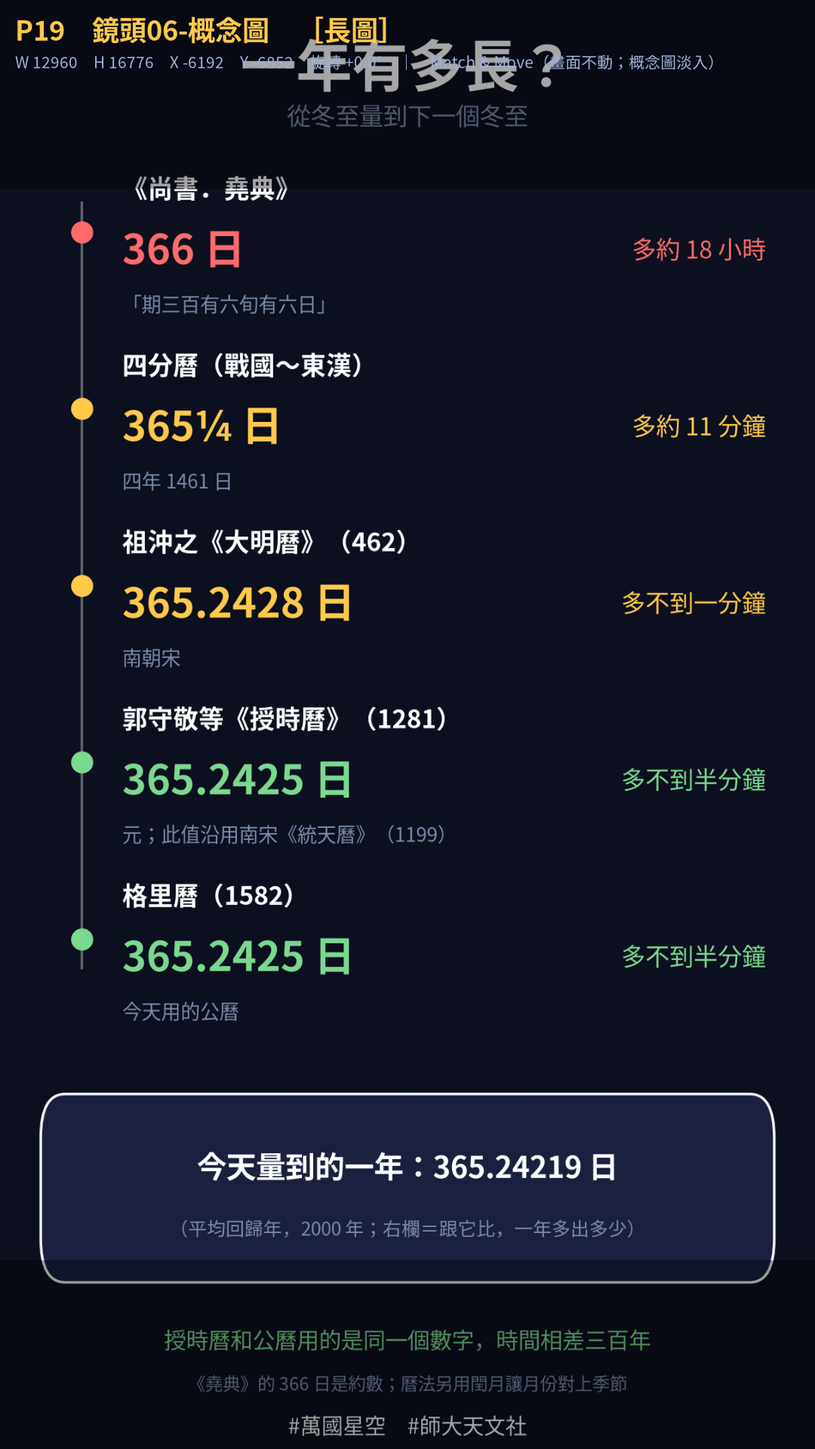
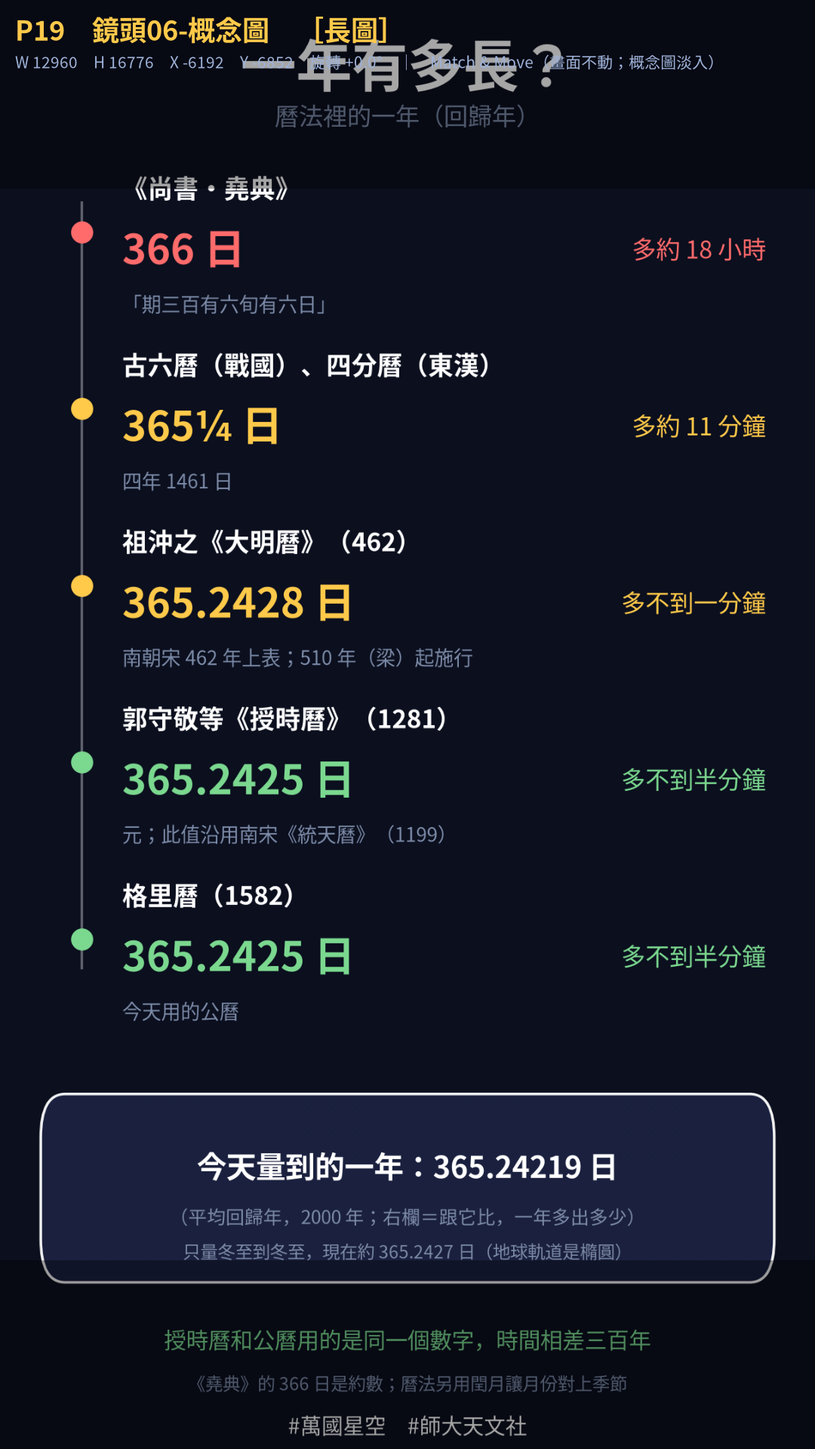
H-冬至：依事實查核修正（景符旁白、Yule 句、建康、圖卡基準與今晚說明）＋節目表
- 05 鏡：景符是讓模糊的影子變成亮點裡的一道細線（10 秒）；11 鏡「在聖誕節傳來以前」（12 秒）
- C-HDZ-03 拿掉「建康」（原文未載地點）；C-HDZ-04 八尺表影長統一為約一丈三尺、註明以登封觀星台為例
- C-HDZ-05 副標改「曆法裡的一年（回歸年）」並註明冬至到冬至約 365.2427 日；四分曆、大明曆施行年
- C-HDZ-06：18:00 改「頭頂附近：飛馬座大四邊形」、昴宿這時在東方；九點半是「到正南（頭頂）」；折射註腳
- 逐字稿書名間隔號統一「・」、古度／今度註明；總長 119 秒、494 字、4.15 字/秒
- 節目表 H-冬至 列更新（119s、素材需求、狀態）

Claude-Session: https://claude.ai/code/session_01StZzE6tWpXcy8oYxpE6GNa

diff --git a/02_製作流程SOP/make_hdz_v4.py b/02_製作流程SOP/make_hdz_v4.py
@@ -5,20 +5,20 @@
   ① 影子：立八尺的表、平放一把圭，每天正午量影子；最長的那天就是冬至（《周髀算經》冬至晷長
      一丈三尺五寸、夏至一尺六寸）。從這次最長數到下次最長＝一年＝365¼ 日，所以周天也分成
      365¼ 度：太陽一天走一度。
-  ② 越量越準：冬至前後影長幾乎不變 → 祖沖之（南朝宋，大明五年 461）量冬至前後影長相同的兩天、
-     折取其中（《宋書．律曆志》）→ 郭守敬（元）四丈高表＋景符；授時曆（1281）歲實 365.2425 日，
+  ② 越量越準：冬至前後影長幾乎不變 → 祖沖之（南朝宋大明五年 461）量冬至前後影長相同的兩天、
+     折取其中（《宋書・律曆志》）→ 郭守敬（元）四丈高表＋景符；授時曆（1281）歲實 365.2425 日，
      與 1582 年格里曆同值（此值沿用南宋統天曆）。
-  ③ 星星：《尚書．堯典》「日短星昴，以正仲冬」——冬至黃昏昴宿在正南。東晉虞喜（330）：
-     「堯時冬至日短星昴，今二千七百餘年，乃東壁中」（《宋史．律曆志》引）→ 歲差。
+  ③ 星星：《尚書・堯典》「日短星昴，以正仲冬」——冬至黃昏昴宿在正南。東晉虞喜（330）：
+     「堯時冬至日短星昴，今二千七百餘年，乃東壁中」（《宋史・律曆志》引）→ 歲差。
      今晚台北：18:00 正南方是東壁（飛馬座大四邊形東邊），昴宿 21:38 才到頭頂（高度 89°）。
 之後：今天怎麼看（圖卡）→ 下集 A-15 北歐：畢宿的狼嘴 Úlfs kjaptr；導流 C-01 論天三家。
 
-來源：《周髀算經》、《宋書．律曆志》、《元史．天文志》、《尚書．堯典》、《宋史．律曆志》、
+來源：《周髀算經》、《宋書・律曆志》、《元史・天文志》、《尚書・堯典》、《宋史・律曆志》、
 Stellarium 新版 skycultures：chinese（室宿、壁宿、昴宿、畢宿）、norse（Wolf's Mouth）；PyEphem 自算。
 
 參數
   lst = 2.5 → 走廊（x=0）＝RA 2.5＝台北 2026/12/22 18:00 的子午線（LST 0h10m）：壁宿 x≈0，
-             室宿 +16，昴宿 −54.4（＝3.6 小時後，21:38 到頭頂），畢宿 −64，月亮（21:38）−64.7。
+             室宿 +16.4，昴宿六 −54.4（＝3.6 小時後，21:38 到頭頂），畢宿五 −66.5，月亮（21:38）−64.1。
   D_s = 45、D_r = 49、D_fill = 0（與 A-05、X-02 相同；盤寬 ÷ 畫布寬 ＝ 0.698729）：本集只用長圖帶
              （室壁 +15…+29、昴宿 +24、畢宿 +15…+19），盤照規定生成、不使用。
 """
@@ -164,9 +164,9 @@ def write_custom(m, S, layers, discs=False):
 # ══════════════════════════════════════════════════════════════════
 TERMS = [
     ("昴宿", "日短星昴（《堯典》）", "amber",
-     "《尚書．堯典》「日短，星昴，以正仲冬」：白天最短、黃昏昴宿在正南，就是仲冬"),
+     "《尚書・堯典》「日短，星昴，以正仲冬」：白天最短、黃昏昴宿在正南，就是仲冬"),
     ("東壁", "壁宿", "amber",
-     "虞喜（東晉，330）：「堯時冬至日短星昴，今二千七百餘年，乃東壁中」（《宋史．律曆志》引）"),
+     "虞喜（東晉，330）：「堯時冬至日短星昴，今二千七百餘年，乃東壁中」（《宋史・律曆志》引）"),
     ("室宿", "營室", "white", "室宿一 α Peg、室宿二 β Peg；室、壁古時合稱營室（飛馬座大四邊形）"),
     ("21:38", "昴宿到頭頂（台北今晚）", "amber", "PyEphem：台北 2026/12/22 21:38 昴宿六過子午線，高度 89.2°"),
     ("Úlfs kjaptr", "狼嘴（北歐）", "red", "Stellarium norse：Wolf's Mouth＝畢宿的 V；A-15"),
@@ -276,10 +276,11 @@ def build():
              vo="可是冬至前後，影子幾乎不變，看不出哪天最長。南朝的祖沖之改量冬至前後影子一樣長的兩天，"
                 "再取正中間。",
              note="畫面不動；定格疊概念圖 C-HDZ-03（平頂 → 大明五年的三次實測 → 折取其中＝十一月三日）"),
-        dict(code="05", kind="Z", sec=9, north=True,
+        dict(code="05", kind="Z", sec=10, north=True,
              frames=[WALL], layers=["定位", "室壁"], labels=[], labels_start=[],
              overlay="C-HDZ-04_四丈高表", overlay_layers=["八尺層", "四丈層", "景符層"],
-             vo="元朝的郭守敬，把竿子加高到四丈，影子拉長五倍；再用一片有小孔的「景符」，對準模糊的影子邊緣。",
+             vo="元朝的郭守敬，把竿子加高到四丈，影子拉長五倍；再用有小孔的「景符」，讓模糊的影子，"
+                "變成亮點裡的一道細線。",
              note="畫面不動；定格疊概念圖 C-HDZ-04（八尺表 → 四丈高表 → 景符）"),
         dict(code="06", kind="Z", sec=12, north=True,
              frames=[WALL], layers=["定位", "室壁"], labels=[], labels_start=[],
@@ -289,7 +290,7 @@ def build():
              note="畫面不動；之後疊 9:16 圖卡 C-HDZ-05 一年有多長（可存圖）"),
         dict(code="07", kind="S", sec=10, north=True,
              frames=[WALL, MAO], layers=["昴"], labels=ls("堯典"), labels_start=[],
-             vo="影子管白天，星星管晚上。《尚書．堯典》說：「日短星昴，以正仲冬」——白天最短、"
+             vo="影子管白天，星星管晚上。《尚書・堯典》說：「日短星昴，以正仲冬」——白天最短、"
                 "黃昏時昴宿在正南方，就是仲冬。",
              note="往左（東）滑到昴宿；昴宿（琥珀）"),
         dict(code="08", kind="S", sec=11, north=True,
@@ -300,17 +301,17 @@ def build():
         dict(code="09", kind="S", sec=10, north=True,
              frames=[WALL, MAO], layers=["昴", "畢", "月"], labels=ls("今晚"), labels_start=ls("虞喜"),
              vo="今晚在台北，昴宿要到九點半過後，才爬到頭頂正上方——比《堯典》說的黃昏，晚了好幾個鐘頭。",
-             note="往左滑 64°＝4.2 小時（18:00 正南 → 21:38 頭頂）；昴宿、畢宿、月亮（12/22 21:38 的位置）"),
+             note="鏡頭往左滑 64°（框中心 x +7 → −57）；昴宿 18:00 後 3.6 小時（21:38）到頭頂；昴宿、畢宿、月亮（12/22 21:38 的位置）"),
         dict(code="10", kind="Z", sec=12, north=True,
              frames=[MAO], layers=["昴", "畢", "月"], labels=[], labels_start=ls("今晚"),
              overlay="C-HDZ-06_今天怎麼看",
              vo="今天中午十一點五十二分，立一根一公尺的棍子，影子大約一點一三公尺，是今年最長的。"
                 "今晚月亮快滿了，昴宿就在它旁邊。",
              note="畫面不動；之後疊 9:16 圖卡 C-HDZ-06 今天怎麼看（台北 12/22；可存圖）"),
-        dict(code="11", kind="Z", sec=11, north=True,
+        dict(code="11", kind="Z", sec=12, north=True,
              frames=[MAO, WOLF], layers=["狼", "月"], labels=ls("北歐"), labels_start=[],
              vo="影子還能量出太陽多遠？可以回頭看《論天三家》那集。三天後聖誕節，我們去北歐："
-                "聖誕節以前，北歐人過的仲冬節，叫 Yule。",
+                "在聖誕節傳來以前，北歐人過的仲冬節，叫 Yule。",
              card="下集見｜北歐：Yule 之夜的狼與神駒",
              note="推近畢宿；北歐狼嘴（紅）；端卡＋追蹤 CTA"),
     ]

diff --git a/04_腳本庫/H-冬至-一根棍子如何量出一年-逐字稿-v1.md b/04_腳本庫/H-冬至-一根棍子如何量出一年-逐字稿-v1.md
@@ -1,29 +1,29 @@
-# H-冬至｜一根棍子如何量出一年（萬國星空・特別短鉤子）・v1
+# H-冬至｜一根棍子如何量出一年（萬國星空・特別短鉤子）・v1（已過事實查核）
 
 | 項目 | 內容 |
 |---|---|
 | 發布 | **2026/12/22（二・冬至）**；冬至交節 04:50（台北） |
-| 時長 | **117 秒**（11 鏡頭；節目表原訂 30–45 秒，見下方 ⚠） |
+| 時長 | **119 秒**（11 鏡頭；節目表原訂 30–45 秒，見下方 ⚠） |
 | 格式 | Reels 9:16；**長圖帶狀**（台北 12/22 18:00 的子午線＝畫面中線；全片不用盤）；定格概念圖 4 組＋9:16 圖卡 2 張 |
 | 素材 | `05_素材/H-冬至_圭表/_v4大畫布/`（v4.6：大畫布＋北／南盤圖層組；連線：大四邊形（定位，白）、室宿＋壁宿（琥珀）、昴宿（琥珀）、畢宿（白）、狼嘴（北歐，紅）；自訂層：月亮（12/22 21:38 的位置）；標籤 4 組；`H-冬至_Canva逐頁製作表.md`＋`H-冬至_對位參考/` 26 頁）；`05_素材/H-冬至_圭表/_概念圖/`（C-HDZ-01～06） |
 | 參數 | **lst=2.5, D_s=45, D_r=49, D_fill=0**；k=1.397，R_fill=125.77，y_pole=107.09（盤寬 ÷ 畫布寬 ＝ **0.698729**，與 A-05、X-02 同） |
 | 為何這組參數 | 走廊（x=0）＝RA 2.5°＝台北 12/22 18:00 的子午線（恆星時 0h10m）：壁宿（東壁）x −0.2、室宿 +16.4、昴宿六 −54.4（往東 54°＝3.6 小時後，21:38 到頭頂）、畢宿五 −66.5、月亮（21:38）−64.1。所有星都在 dec +15…+29，D_s=45 包得住；不需要盤鏡頭（盤圖層組照規格輸出、未使用）。 |
-| 來源 | 《周髀算經》（表高八尺，冬至晷一丈三尺五寸、夏至一尺六寸）；《尚書．堯典》（日短星昴、期三百有六旬有六日）；《宋書．律曆志》（祖沖之大明五年實測）；《元史．天文志》（四丈高表、景符）；《宋史．律曆志》引虞喜；Stellarium 新版 skycultures：chinese（室宿、壁宿、昴宿、畢宿）、norse（Wolf's Mouth）；天象 PyEphem 自算 |
-| 配音 | 逐字稿 **486 字**（中文字＋外文音節），平均 **4.15 字/秒**；最快一格 04 鏡 4.40（上限 4.5） |
+| 來源 | 《周髀算經》（表高八尺，冬至晷一丈三尺五寸、夏至一尺六寸）；《尚書・堯典》（日短星昴、期三百有六旬有六日）；《宋書・律曆志》（祖沖之大明五年實測）；《元史・天文志》（四丈高表、景符）；《宋史・律曆志》引虞喜；Stellarium 新版 skycultures：chinese（室宿、壁宿、昴宿、畢宿）、norse（Wolf's Mouth）；天象 PyEphem 自算 |
+| 配音 | 逐字稿 **494 字**（中文字＋外文音節），平均 **4.15 字/秒**；最快兩格 04、05 鏡 4.40（上限 4.5） |
 | 統一開頭 | 「同一片星空，冬至這一天——影子最長；古人用一根棍子——量出一年。」 |
 | 承接 | EP19（A-14）因紐特（12/18）→ **H-冬至（12/22）** → EP20（A-15）北歐：Yule 之夜的狼與神駒（12/25）；導流 C-01 論天三家（圭表量太陽多遠） |
 
-> ⚠ **節目表時長要改**：原訂 30–45 秒，實際 117 秒（11 鏡）。要做 45 秒版：留 01、02、03 前半句（「從這次最長數到下次最長，就是一年」）、07、10，約 47 秒；祖沖之、郭守敬、虞喜三段（04、05、06、08）改成輪播圖卡或留給完整版。
+> ⚠ **節目表時長要改**：原訂 30–45 秒，實際 119 秒（11 鏡）。要做 45 秒版：留 01、02、03 前半句（「從這次最長數到下次最長，就是一年」）、07、10，約 47 秒；祖沖之、郭守敬、虞喜三段（04、05、06、08）改成輪播圖卡或留給完整版。
 > ⚠ **節目表素材需求要改**：原寫「圭表示意＋星盤」——星空部分用長圖帶就夠（東壁、昴宿都在 dec +15…+29），**不需要星盤**；圭表改成 4 組概念圖。
 > ⚠ **鉤子保留**：「冬至：一根棍子如何量出一年」「觀象授時——古人用影子做日曆」都照用。
-> ⚠ **講得保守的地方**：①《堯典》四仲中星的年代爭議很大（各家從約前 2300 年到前 400 年都有），片中不說「幾千年前」，只說今晚昴宿要等到九點半過後才到頭頂、「比《堯典》說的黃昏晚了好幾個鐘頭」（今晚黃昏 17:35，昴宿 21:38 過子午線，是自算的事實）；②365.2425 日是授時曆**採用**的數字（沿用南宋楊忠輔《統天曆》，1199），片中說「授時曆一年取」，不說郭守敬算出來的；③虞喜的「二千七百餘年」「東壁中」是他自己的估計，他的歲差值「五十年退一度」偏快（實際約 71.6 年一度），片中只講他的發現；④《周髀》的一丈三尺五寸是書上的理想值，登封八尺表的冬至影長自算約一丈二尺七寸，C-HDZ-02 註明「計算值」；⑤祖沖之的三次實測是大明五年（461），《大明曆》是隔年（462）上表。
+> ⚠ **講得保守的地方**：①《堯典》四仲中星的年代爭議很大（各家從約前 2300 年到前 400 年都有），片中不說「幾千年前」，只說今晚昴宿要等到九點半過後才到頭頂、「比《堯典》說的黃昏晚了好幾個鐘頭」（今晚黃昏 17:35，昴宿 21:38 過子午線，是自算的事實）；②365.2425 日是授時曆**採用**的數字（沿用南宋楊忠輔《統天曆》，1199），片中說「授時曆一年取」，不說郭守敬算出來的；③虞喜的「二千七百餘年」「東壁中」是他自己的估計，他的歲差值「五十年退一度」（古度）偏快（實際約每 71.6 年一度，今度），片中只講他的發現；④《周髀》的一丈三尺五寸是書上的理想值，登封八尺表的冬至影長自算約一丈二尺七寸，C-HDZ-02 註明「計算值」；⑤祖沖之的三次實測是大明五年（461），《大明曆》是隔年（462）上表。
 
 > **資料來源挖掘重點（第〇節檢查表）**
 > 1. **本文化的鄰居**：主角是昴宿（HIP 17702）與東壁（壁宿一 γ Peg HIP 1067、壁宿二 α And HIP 677）。台北 12/22 18:00 子午線（RA 2.5°）兩側：西邊室宿（α、β Peg，＝飛馬座大四邊形西邊），東邊奎、婁、胃、昴、畢一路排開——正好是「冬至黃昏正南方的星」從《堯典》的昴宿退到虞喜的東壁、再到今天的這段天。
 > 2. **跨文化同星群**：畢宿（昴宿旁）在北歐是狼嘴 Úlfs kjaptr（A-15）——三天後聖誕節的下集主角，用來接下集；昴宿的各文化名字 X-01 已講，這集不重複。
 > 3. **恆星物理／天象**：PyEphem 自算台北 2026/12/22：冬至交節 04:50；正午 11:52 太陽高 41.53°，1 公尺棍子影長 1.129 公尺（12/21 1.1291、12/23 1.1289，22 日最長）；日出 06:35、日落 17:10，白天 10 小時 35 分（夏至 13 小時 42 分）；民用昏影終 17:35；18:00 壁宿一過子午線（仰角 80°）；昴宿六 21:38 過子午線，仰角 89.2°（幾乎正頭頂）；月亮 96%，21:38 在昴宿東邊 9.3°（12/24 09:28 滿月）。
-> 4. **文獻**：《周髀算經》（八尺表、冬至晷一丈三尺五寸）；《尚書．堯典》（「曆象日月星辰，敬授人時」「日短星昴，以正仲冬」「期三百有六旬有六日」）；《宋書．律曆志》（祖沖之大明五年三次測影、「折取其中」）；《元史．天文志》（四丈高表：橫梁心到圭面共四十尺；景符）；《宋史．律曆志》引虞喜（「堯時冬至日短星昴，今二千七百餘年，乃東壁中」）。
-> 5. **原始出處看到底**：①祖沖之的三個影長要讀成十月十日 10.775 尺、十一月二十五日 10.8175 尺（「太」＝四分之三分）、二十六日 10.7508 尺（「強」＝十二分之一分；各本或作「一丈七五分強」脫「寸」）——用這三個數字自己內插一次：十月十日的對稱日在冬至後 22.64 天，取中＝十一月三日夜半後 0.319 日＝31.9 刻，跟原文「夜半後三十一刻」對得上（十月小月 29 日）；②365.2425 不是郭守敬首創（統天曆已用），圖卡寫明；③虞喜的話是《宋史．律曆志》轉引，原書《安天論》已佚。
+> 4. **文獻**：《周髀算經》（八尺表、冬至晷一丈三尺五寸）；《尚書・堯典》（「曆象日月星辰，敬授人時」「日短星昴，以正仲冬」「期三百有六旬有六日」）；《宋書・律曆志》（祖沖之大明五年三次測影、「折取其中」）；《元史・天文志》（四丈高表：橫梁心到圭面共四十尺；景符）；《宋史・律曆志》引虞喜（「堯時冬至日短星昴，今二千七百餘年，乃東壁中」）。
+> 5. **原始出處看到底**：①祖沖之的三個影長要讀成十月十日 10.775 尺、十一月二十五日 10.8175 尺（「太」＝四分之三分）、二十六日 10.7508 尺（「強」＝十二分之一分；各本或作「一丈七五分強」脫「寸」）——用這三個數字自己內插一次：十月十日的對稱日在冬至後 22.64 天，取中＝十一月三日夜半後 0.319 日＝31.9 刻，跟原文「夜半後三十一刻」對得上（十月小月 29 日）；②365.2425 不是郭守敬首創（統天曆已用），圖卡寫明；③虞喜的話是《宋史・律曆志》轉引，原書《安天論》已佚。
 > 6. **去處**：主線＝冬至最短 → 圭表 → 一年＝最長到最長、周天 365¼ 度 → 祖沖之折取其中 → 郭守敬四丈高表 → 一年有多長（圖卡）→ 影子管白天、星星管晚上：日短星昴 → 虞喜與歲差 → 今晚的昴宿 → 今天怎麼看（圖卡）→ 下集 Yule、導流 C-01；字卡＝圭表、一年的影子、折取其中、四丈高表；圖卡＝一年有多長、冬至今天怎麼看；首留言＝原文全引。
 
 ---
@@ -36,13 +36,13 @@
 | **02** Z | 9–19s（10） | 立一根八尺高的竿子，叫「表」；地上平放一把尺，叫「圭」。每天正午量影子：夏天短、冬天長，最長的那天，就是冬至。 | 大畫布 fov 30（同 01 迄格）；概念圖 `C-HDZ-01_圭表`（表與圭層→夏至層→冬至層） | 畫面不動；三層依旁白淡入 |
 | **03** Z | 19–32s（13） | 從這次最長，數到下次最長，就是一年：三百六十五又四分之一天。所以古人把天空也分成三百六十五又四分之一度——太陽一天走一度。 | 同上；概念圖 `C-HDZ-02_一年的影子`（影長層→一年層→一度層） | 「365¼ 天」箭頭出現時停半拍 |
 | **04** Z | 32–42s（10） | 可是冬至前後，影子幾乎不變，看不出哪天最長。南朝的祖沖之改量冬至前後影子一樣長的兩天，再取正中間。 | 同上；概念圖 `C-HDZ-03_折取其中`（平頂層→兩天層→取中層） | 綠色箭頭從兩邊往中間收 |
-| **05** Z | 42–51s（9） | 元朝的郭守敬，把竿子加高到四丈，影子拉長五倍；再用一片有小孔的「景符」，對準模糊的影子邊緣。 | 同上；概念圖 `C-HDZ-04_四丈高表`（八尺層→四丈層→景符層） | 四丈高表從八尺表旁邊長高 |
-| **06** Z | 51–63s（12） | 授時曆一年取三百六十五點二四二五天——三百年後歐洲訂的公曆，用的是同一個數字，跟今天量到的一年，差不到半分鐘。 | 同上；9:16 圖卡 `C-HDZ-05_一年有多長`（滿版） | 圖卡可存圖 |
-| **07** S | 63–73s（10） | 影子管白天，星星管晚上。《尚書．堯典》說：「日短星昴，以正仲冬」——白天最短、黃昏時昴宿在正南方，就是仲冬。 | 大畫布 fov 30，往左（東）滑 64° 到昴宿；昴宿（琥珀）；迄格標籤 堯典（昴宿／日短星昴） | 引文唸慢 |
-| **08** S | 73–84s（11） | 東晉的虞喜發現：到了他那時，冬至黃昏的正南方，已經從昴宿換成東壁。星星跟季節，每年都錯開一點點——這就是「歲差」。 | 往右滑回大四邊形；大四邊形＋室宿、壁宿；起格標籤 堯典、迄格標籤 虞喜（東壁／室宿／冬至黃昏的正南方） | 「歲差」兩字放慢 |
-| **09** S | 84–94s（10） | 今晚在台北，昴宿要到九點半過後，才爬到頭頂正上方——比《堯典》說的黃昏，晚了好幾個鐘頭。 | 往左滑 64°＝4.2 小時（18:00 正南 → 21:38 頭頂）；昴宿、畢宿（白）、月亮（12/22 21:38 的位置）；迄格標籤 今晚（21:38／昴宿到頭頂／月亮 96%） | 滑動＝時間在走 |
-| **10** Z | 94–106s（12） | 今天中午十一點五十二分，立一根一公尺的棍子，影子大約一點一三公尺，是今年最長的。今晚月亮快滿了，昴宿就在它旁邊。 | 大畫布 fov 30（同 09 迄格）；9:16 圖卡 `C-HDZ-06_今天怎麼看`（滿版） | 圖卡可存圖 |
-| **11** Z | 106–117s（11） | 影子還能量出太陽多遠？可以回頭看《論天三家》那集。三天後聖誕節，我們去北歐：聖誕節以前，北歐人過的仲冬節，叫 Yule。 | 推近畢宿 fov 26；北歐狼嘴（紅）＋月亮；迄格標籤 北歐（Úlfs kjaptr／狼嘴） | 端卡「下集見｜北歐：Yule 之夜的狼與神駒」＋追蹤 CTA |
+| **05** Z | 42–52s（10） | 元朝的郭守敬，把竿子加高到四丈，影子拉長五倍；再用有小孔的「景符」，讓模糊的影子，變成亮點裡的一道細線。 | 同上；概念圖 `C-HDZ-04_四丈高表`（八尺層→四丈層→景符層） | 四丈高表從八尺表旁邊長高 |
+| **06** Z | 52–64s（12） | 授時曆一年取三百六十五點二四二五天——三百年後歐洲訂的公曆，用的是同一個數字，跟今天量到的一年，差不到半分鐘。 | 同上；9:16 圖卡 `C-HDZ-05_一年有多長`（滿版） | 圖卡可存圖 |
+| **07** S | 64–74s（10） | 影子管白天，星星管晚上。《尚書・堯典》說：「日短星昴，以正仲冬」——白天最短、黃昏時昴宿在正南方，就是仲冬。 | 大畫布 fov 30，往左（東）滑 64° 到昴宿；昴宿（琥珀）；迄格標籤 堯典（昴宿／日短星昴） | 引文唸慢 |
+| **08** S | 74–85s（11） | 東晉的虞喜發現：到了他那時，冬至黃昏的正南方，已經從昴宿換成東壁。星星跟季節，每年都錯開一點點——這就是「歲差」。 | 往右滑回大四邊形；大四邊形＋室宿、壁宿；起格標籤 堯典、迄格標籤 虞喜（東壁／室宿／冬至黃昏的正南方） | 「歲差」兩字放慢 |
+| **09** S | 85–95s（10） | 今晚在台北，昴宿要到九點半過後，才爬到頭頂正上方——比《堯典》說的黃昏，晚了好幾個鐘頭。 | 鏡頭往左滑 64°（框中心 x +7 → −57）；昴宿 18:00 後 3.6 小時（21:38）到頭頂；昴宿、畢宿（白）、月亮（12/22 21:38 的位置）；迄格標籤 今晚（21:38／昴宿到頭頂／月亮 96%） | 滑動＝時間在走 |
+| **10** Z | 95–107s（12） | 今天中午十一點五十二分，立一根一公尺的棍子，影子大約一點一三公尺，是今年最長的。今晚月亮快滿了，昴宿就在它旁邊。 | 大畫布 fov 30（同 09 迄格）；9:16 圖卡 `C-HDZ-06_今天怎麼看`（滿版） | 圖卡可存圖 |
+| **11** Z | 107–119s（12） | 影子還能量出太陽多遠？可以回頭看《論天三家》那集。三天後聖誕節，我們去北歐：在聖誕節傳來以前，北歐人過的仲冬節，叫 Yule。 | 推近畢宿 fov 26；北歐狼嘴（紅）＋月亮；迄格標籤 北歐（Úlfs kjaptr／狼嘴） | 端卡「下集見｜北歐：Yule 之夜的狼與神駒」＋追蹤 CTA |
 
 ## 星空對時（PyEphem 自算；台北 25.03°N 121.57°E）
 
@@ -52,7 +52,7 @@
 | 日出、日落 | 06:35、17:10；白天 10 小時 35 分（夏至 6/21：13 小時 42 分） | 圖卡 06 |
 | 正午 | 11:52；太陽高 41.53°；1 公尺棍子影長 1.129 公尺（12/21 1.1291、12/23 1.1289） | 10 鏡、圖卡 06 |
 | 民用昏影終 | 17:35（恆星時 23h45m） | 考據 |
-| 18:00 子午線 | 恆星時 0h10m（RA 2.5°）：壁宿一 γ Peg 過子午線，仰角 80°；壁宿二 α And 仰角約 86°（在頭頂偏北） | 01、08 鏡，圖卡 06 |
+| 18:00 子午線 | 恆星時 0h10m（RA 2.5°）：壁宿一 γ Peg 過子午線，仰角 80°；壁宿二 α And 仰角約 86°（在頭頂偏北）；昴宿在東方（方位 79°）仰角 41° | 01、08 鏡，圖卡 06（圖卡寫「頭頂附近：飛馬座大四邊形」，不寫「正南：東壁」） |
 | 昴宿六過子午線 | 21:38，仰角 89.2° | 09 鏡、圖卡 06 |
 | 月亮 | 96%；21:38 在昴宿東邊 9.3°；12/24 09:28 滿月 | 09–11 鏡、圖卡 06 |
 | 登封（34.4°N）八尺表 | 冬至影長 12.72 尺、夏至 1.55 尺（計算值，黃赤交角 23.44°） | C-HDZ-02 |
@@ -65,9 +65,9 @@
 |---|---|---|---|---|
 | 表 | 立在地上的竿子（八尺） | 圭表 | 《周髀算經》 | 02 |
 | 圭 | 平放在地上量影子的尺 | 圭表 | 《周禮》土圭；《元史》 | 02 |
-| 景符 | 有小孔的銅片，讓太陽小亮影與橫梁細影同時落在圭上 | 郭守敬高表的附件 | 《元史．天文志》 | 05 |
+| 景符 | 有小孔的銅片，讓太陽小亮影與橫梁細影同時落在圭上 | 郭守敬高表的附件 | 《元史・天文志》 | 05 |
 | 昴宿 | 二十八宿之一（七姊妹星團） | 昴宿六 HIP 17702 等 | 《堯典》「日短星昴」 | 07–10 |
-| 東壁 | 壁宿（古時與室宿合稱營室） | 壁宿一 γ Peg、壁宿二 α And | 虞喜（《宋史．律曆志》引） | 08 |
+| 東壁 | 壁宿（古時與室宿合稱營室） | 壁宿一 γ Peg、壁宿二 α And | 虞喜（《宋史・律曆志》引） | 08 |
 | 室宿 | 二十八宿之一 | α、β Peg | Stellarium chinese | 08 |
 | Úlfs kjaptr | 狼嘴（北歐） | 畢宿的 V | Stellarium norse；A-15 | 11 |
 
@@ -75,12 +75,12 @@
 
 - **《周髀算經》**：表（髀）高八尺；夏至晷一尺六寸、冬至晷一丈三尺五寸。這兩個數字是書裡的理想值（C-01 已用），換算太陽高度約 79°、31°。
 - **周天 365¼ 度**：古度以太陽一天在天上走的距離為一度，所以周天＝一年的日數＝365¼ 度；古一度＝360/365.25＝0.9856°。
-- **四分曆**：戰國的古六曆到東漢四分曆，一年都取 365¼ 日（四年 1461 日）。
-- **祖沖之**：《宋書．律曆志》載祖沖之駁戴法興：大明五年十月十日影一丈七寸七分半，十一月二十五日一丈八寸一分太，二十六日一丈七寸五分強；「折取其中，則中天冬至，應在十一月三日」，再用後兩日的影差內插，得「冬至加時在夜半後三十一刻，在元嘉曆後一日」。好處：不必剛好在冬至那天晴天，也不怕冬至前後影長幾乎不變。地點是南朝宋的都城建康（今南京）。
-- **郭守敬的高表**：《元史．天文志》：表長五十尺，入地及座中一丈四尺，上高三十六尺；頂端兩條龍托住橫梁，梁心到表頂四尺，所以梁心到圭面共四十尺（「四丈高表」，是八尺表的五倍）。景符是有小孔的銅片，用針孔成像讓太陽的小亮影與橫梁的細影一起落在圭上，細影切過亮影正中央時讀數。河南登封的觀星台（元，至元年間）就是這種「以台代表」的高表，台高約 9.5 公尺，北面石圭約 31 公尺。
-- **授時曆**：至元十七年（1280）完成、十八年（1281）頒行；歲實 365.2425 日，沿用南宋楊忠輔《統天曆》（1199），與 1582 年的格里曆同值；今天的平均回歸年 365.24219 日（J2000），差約 27 秒。授時曆另有「歲實消長」（每百年減 0.0002 日），片中不提。
+- **四分曆**：戰國的古六曆、東漢四分曆，一年都取 365¼ 日（四年 1461 日）；中間西漢的太初曆、三統曆取 365 又 385/1539 日（≈365.2502）。
+- **祖沖之**：《宋書・律曆志》載祖沖之駁戴法興：大明五年十月十日影一丈七寸七分半，十一月二十五日一丈八寸一分太，二十六日一丈七寸五分強；「折取其中，則中天冬至，應在十一月三日」，再用後兩日的影差內插，得「冬至加時在夜半後三十一刻，在元嘉曆後一日」。好處：不必剛好在冬至那天晴天，也不怕冬至前後影長幾乎不變。原文沒有記地點（不寫建康）。《大明曆》462 年上表，到 510 年（梁天監九年）才施行。
+- **郭守敬的高表**：《元史・天文志》：表長五十尺，入地及座中一丈四尺，上高三十六尺；頂端兩條龍托住橫梁，梁心到表頂四尺，所以梁心到圭面共四十尺（「四丈高表」，是八尺表的五倍）。景符是有小孔的銅片，用針孔成像讓太陽的小亮影與橫梁的細影一起落在圭上，細影切過亮影正中央時讀數。河南登封的觀星台（元，至元年間）就是這種「以台代表」的高表，台高約 9.5 公尺，北面石圭約 31 公尺。
+- **授時曆**：至元十七年（1280）完成、十八年（1281）頒行；歲實 365.2425 日，沿用南宋楊忠輔《統天曆》（1199），與 1582 年的格里曆同值；今天的平均回歸年 365.24219 日（J2000），差約 27 秒。授時曆另有「歲實消長」（每百年減 0.0002 日），片中不提。圖卡 C-HDZ-05 右欄跟平均回歸年比；只量「冬至到冬至」的話，現在約 365.2427 日（近日點靠近冬至，這段比平均長），圖卡底下有註。C-HDZ-04 的影長以登封觀星台為例（《元史》寫的四丈表在大都司天台）。
 - **《堯典》**：「乃命羲和，欽若昊天，曆象日月星辰，敬授人時」＝「觀象授時」的出處；「日中星鳥，以殷仲春；日永星火，以正仲夏；宵中星虛，以殷仲秋；日短星昴，以正仲冬」；「期三百有六旬有六日，以閏月定四時成歲」（366 是約數）。四仲中星的年代，竺可楨等各家推算差很多（約前 2300 年到前 400 年都有人主張），片中不給年代。
-- **虞喜**：東晉咸和五年（330）前後，《宋史．律曆志》引：「堯時冬至日短星昴，今二千七百餘年，乃東壁中，則知每歲漸差之所至。」他定的歲差「五十年退一度」偏快（實際約 71.6 年一度）；祖沖之《大明曆》第一次把歲差放進中國曆法。
+- **虞喜**：東晉咸和五年（330）前後，《宋史・律曆志》引：「堯時冬至日短星昴，今二千七百餘年，乃東壁中，則知每歲漸差之所至。」他定的歲差「五十年退一度」（古度）偏快（實際約每 71.6 年一度，這是今度；換成古度約 70.6 年）；祖沖之《大明曆》第一次把歲差放進中國曆法。
 - **今晚與東壁**：今晚 18:00 壁宿一正好過子午線；但「黃昏」怎麼定、在哪裡看都會差半小時以上，所以片中不說「今天黃昏正南也是東壁」（以免被誤會成一千七百年都沒動），只講昴宿 21:38 到頭頂。
 - **下集**：A-15 北歐（12/25）：畢宿的狼嘴 Úlfs kjaptr；Yule 從仲冬夜（hǫkunótt）開始，十世紀 Hákon 立法改跟聖誕節同一天（A-15 考據）。
 
@@ -105,13 +105,13 @@
 
 📚 **圭表**：《周髀算經》：「周髀長八尺，夏至之日晷一尺六寸。」書中二十四氣的晷長，冬至是一丈三尺五寸。片中登封的影長曲線是依北緯 34.4° 自算的（冬至約一丈二尺七寸、夏至約一尺五寸）。
 
-📚 **觀象授時**：《尚書．堯典》：「乃命羲和，欽若昊天，曆象日月星辰，敬授人時。」又：「日短，星昴，以正仲冬。」「期三百有六旬有六日，以閏月定四時成歲。」
+📚 **觀象授時**：《尚書・堯典》：「乃命羲和，欽若昊天，曆象日月星辰，敬授人時。」又：「日短，星昴，以正仲冬。」「期三百有六旬有六日，以閏月定四時成歲。」
 
-📚 **祖沖之**：《宋書．律曆志》（祖沖之駁戴法興）：大明五年（461）十月十日，影一丈七寸七分半；十一月二十五日，一丈八寸一分太；二十六日，一丈七寸五分強。「折取其中，則中天冬至，應在十一月三日。」再用後兩日的影差內插，得冬至在夜半後三十一刻，「在元嘉曆後一日」。
+📚 **祖沖之**：《宋書・律曆志》（祖沖之駁戴法興）：大明五年（461）十月十日，影一丈七寸七分半；十一月二十五日，一丈八寸一分太；二十六日，一丈七寸五分強。「折取其中，則中天冬至，應在十一月三日。」再用後兩日的影差內插，得冬至在夜半後三十一刻，「在元嘉曆後一日」。
 
-📚 **郭守敬**：《元史．天文志》：表長五十尺，上高三十六尺，梁心到表頂四尺，「下屬圭面，共為四十尺」；配合有小孔的銅片「景符」讀影。授時曆（1281）歲實 365.2425 日（沿用南宋《統天曆》），與 1582 年的格里曆同值。
+📚 **郭守敬**：《元史・天文志》：表長五十尺，上高三十六尺，梁心到表頂四尺，「下屬圭面，共為四十尺」；配合有小孔的銅片「景符」讀影。授時曆（1281）歲實 365.2425 日（沿用南宋《統天曆》），與 1582 年的格里曆同值。
 
-📚 **歲差**：東晉虞喜（約 330 年）：「堯時冬至日短星昴，今二千七百餘年，乃東壁中，則知每歲漸差之所至。」（《宋史．律曆志》引）他定的「五十年退一度」偏快，今天的值約 71.6 年一度。
+📚 **歲差**：東晉虞喜（約 330 年）：「堯時冬至日短星昴，今二千七百餘年，乃東壁中，則知每歲漸差之所至。」（《宋史・律曆志》引）他定的「五十年退一度」（古度）偏快，今天的值約 71.6 年一度（今度）。
 
 📚 **今天的數字**：冬至交節、正午時刻、影長、昴宿到頭頂、月亮位置，都是用 PyEphem 依台北座標自算。
 
@@ -120,6 +120,6 @@
 - 外文唸法（近似）：Yule（尤爾）、Úlfs kjaptr（片中不唸）。
 - 01 鏡「靠一根棍子」前停半拍，帶一點揭曉感。
 - 03 鏡「三百六十五又四分之一」唸清楚；「太陽一天走一度」放慢。
-- 04 鏡（4.40）是全片最快的一格：「看不出哪天最長」之後小停。
+- 04、05 鏡（4.40）是全片最快的兩格：04「看不出哪天最長」之後小停；05「變成亮點裡的一道細線」放慢。
 - 06 鏡「三百六十五點二四二五」一個字一個字唸；「同一個數字」加重。
 - 07 鏡引文「日短星昴，以正仲冬」唸慢、帶古文腔；08 鏡「這就是『歲差』」停半拍。

diff --git a/05_素材/H-冬至_圭表/_v4大畫布/H-冬至_Canva逐頁製作表.md b/05_素材/H-冬至_圭表/_v4大畫布/H-冬至_Canva逐頁製作表.md
@@ -22,16 +22,16 @@
 | 11 | 鏡頭04-概念圖1 | 長圖 | 12960.0 | 16776.0 | -6192.0 | -6852.0 | 0.0 | Match & Move（畫面不動；概念圖第 1 層淡入） | L1-銀河、L2-星點、L3-經緯線、L5-連線-大四邊形（定位）、L6-連線-室宿壁宿、L11-主角星白點 |  |
 | 12 | 鏡頭04-概念圖2 | 長圖 | 12960.0 | 16776.0 | -6192.0 | -6852.0 | 0.0 | Match & Move（畫面不動；概念圖第 2 層淡入） | L1-銀河、L2-星點、L3-經緯線、L5-連線-大四邊形（定位）、L6-連線-室宿壁宿、L11-主角星白點 |  |
 | 13 | 鏡頭04-概念圖3 | 長圖 | 12960.0 | 16776.0 | -6192.0 | -6852.0 | 0.0 | Match & Move（畫面不動；概念圖第 3 層淡入） | L1-銀河、L2-星點、L3-經緯線、L5-連線-大四邊形（定位）、L6-連線-室宿壁宿、L11-主角星白點 |  |
-| 14 | 鏡頭04-概念圖收＝鏡頭05開始 | 長圖 | 12960.0 | 16776.0 | -6192.0 | -6852.0 | 0.0 | Match & Move（畫面不動；概念圖淡出） | L1-銀河、L2-星點、L3-經緯線、L5-連線-大四邊形（定位）、L6-連線-室宿壁宿、L11-主角星白點 | 元朝的郭守敬，把竿子加高到四丈，影子拉長五倍；再用一片有小孔的「景符」，對準模糊的影子邊緣。 |
+| 14 | 鏡頭04-概念圖收＝鏡頭05開始 | 長圖 | 12960.0 | 16776.0 | -6192.0 | -6852.0 | 0.0 | Match & Move（畫面不動；概念圖淡出） | L1-銀河、L2-星點、L3-經緯線、L5-連線-大四邊形（定位）、L6-連線-室宿壁宿、L11-主角星白點 | 元朝的郭守敬，把竿子加高到四丈，影子拉長五倍；再用有小孔的「景符」，讓模糊的影子，變成亮點裡的一道細線。 |
 | 15 | 鏡頭05-概念圖1 | 長圖 | 12960.0 | 16776.0 | -6192.0 | -6852.0 | 0.0 | Match & Move（畫面不動；概念圖第 1 層淡入） | L1-銀河、L2-星點、L3-經緯線、L5-連線-大四邊形（定位）、L6-連線-室宿壁宿、L11-主角星白點 |  |
 | 16 | 鏡頭05-概念圖2 | 長圖 | 12960.0 | 16776.0 | -6192.0 | -6852.0 | 0.0 | Match & Move（畫面不動；概念圖第 2 層淡入） | L1-銀河、L2-星點、L3-經緯線、L5-連線-大四邊形（定位）、L6-連線-室宿壁宿、L11-主角星白點 |  |
 | 17 | 鏡頭05-概念圖3 | 長圖 | 12960.0 | 16776.0 | -6192.0 | -6852.0 | 0.0 | Match & Move（畫面不動；概念圖第 3 層淡入） | L1-銀河、L2-星點、L3-經緯線、L5-連線-大四邊形（定位）、L6-連線-室宿壁宿、L11-主角星白點 |  |
 | 18 | 鏡頭05-概念圖收＝鏡頭06開始 | 長圖 | 12960.0 | 16776.0 | -6192.0 | -6852.0 | 0.0 | Match & Move（畫面不動；概念圖淡出） | L1-銀河、L2-星點、L3-經緯線、L5-連線-大四邊形（定位）、L6-連線-室宿壁宿、L11-主角星白點 | 授時曆一年取三百六十五點二四二五天——三百年後歐洲訂的公曆，用的是同一個數字，跟今天量到的一年，差不到半分鐘。 |
 | 19 | 鏡頭06-概念圖 | 長圖 | 12960.0 | 16776.0 | -6192.0 | -6852.0 | 0.0 | Match & Move（畫面不動；概念圖淡入） | L1-銀河、L2-星點、L3-經緯線、L5-連線-大四邊形（定位）、L6-連線-室宿壁宿、L11-主角星白點 |  |
-| 20 | 鏡頭06-概念圖收＝鏡頭07開始 | 長圖 | 12960.0 | 16776.0 | -6192.0 | -6852.0 | 0.0 | Match & Move（畫面不動；概念圖淡出） | L1-銀河、L2-星點、L3-經緯線、L5-連線-大四邊形（定位）、L6-連線-室宿壁宿、L11-主角星白點 | 影子管白天，星星管晚上。《尚書．堯典》說：「日短星昴，以正仲冬」——白天最短、黃昏時昴宿在正南方，就是仲冬。 |
+| 20 | 鏡頭06-概念圖收＝鏡頭07開始 | 長圖 | 12960.0 | 16776.0 | -6192.0 | -6852.0 | 0.0 | Match & Move（畫面不動；概念圖淡出） | L1-銀河、L2-星點、L3-經緯線、L5-連線-大四邊形（定位）、L6-連線-室宿壁宿、L11-主角星白點 | 影子管白天，星星管晚上。《尚書・堯典》說：「日短星昴，以正仲冬」——白天最短、黃昏時昴宿在正南方，就是仲冬。 |
 | 21 | 鏡頭07結束＝鏡頭08開始 | 長圖 | 12960.0 | 16776.0 | -3888.0 | -6780.0 | 0.0 | Match & Move（10.0 秒） | L1-銀河、L2-星點、L3-經緯線、L7-連線-昴宿、L11-主角星白點、L12-標籤-堯典 | 東晉的虞喜發現：到了他那時，冬至黃昏的正南方，已經從昴宿換成東壁。星星跟季節，每年都錯開一點點——這就是「歲差」。 |
 | 22 | 鏡頭08結束＝鏡頭09開始 | 長圖 | 12960.0 | 16776.0 | -6192.0 | -6852.0 | 0.0 | Match & Move（11.0 秒） | L1-銀河、L2-星點、L3-經緯線、L5-連線-大四邊形（定位）、L6-連線-室宿壁宿、L11-主角星白點、L13-標籤-虞喜 | 今晚在台北，昴宿要到九點半過後，才爬到頭頂正上方——比《堯典》說的黃昏，晚了好幾個鐘頭。 |
 | 23 | 鏡頭09結束＝鏡頭10開始 | 長圖 | 12960.0 | 16776.0 | -3888.0 | -6780.0 | 0.0 | Match & Move（10.0 秒） | L1-銀河、L2-星點、L3-經緯線、L7-連線-昴宿、L8-連線-畢宿、L10-月亮（12-22 21-38）、L11-主角星白點、L14-標籤-今晚 | 今天中午十一點五十二分，立一根一公尺的棍子，影子大約一點一三公尺，是今年最長的。今晚月亮快滿了，昴宿就在它旁邊。 |
 | 24 | 鏡頭10-概念圖 | 長圖 | 12960.0 | 16776.0 | -3888.0 | -6780.0 | 0.0 | Match & Move（畫面不動；概念圖淡入） | L1-銀河、L2-星點、L3-經緯線、L7-連線-昴宿、L8-連線-畢宿、L10-月亮（12-22 21-38）、L11-主角星白點 |  |
-| 25 | 鏡頭10-概念圖收＝鏡頭11開始 | 長圖 | 12960.0 | 16776.0 | -3888.0 | -6780.0 | 0.0 | Match & Move（畫面不動；概念圖淡出） | L1-銀河、L2-星點、L3-經緯線、L7-連線-昴宿、L8-連線-畢宿、L10-月亮（12-22 21-38）、L11-主角星白點 | 影子還能量出太陽多遠？可以回頭看《論天三家》那集。三天後聖誕節，我們去北歐：聖誕節以前，北歐人過的仲冬節，叫 Yule。 |
-| 26 | 鏡頭11結束 | 長圖 | 14953.8 | 19356.9 | -4361.5 | -8136.9 | 0.0 | Match & Move（11.0 秒） | L1-銀河、L2-星點、L3-經緯線、L9-連線-狼嘴（北歐）、L10-月亮（12-22 21-38）、L11-主角星白點、L15-標籤-北歐 |  |
+| 25 | 鏡頭10-概念圖收＝鏡頭11開始 | 長圖 | 12960.0 | 16776.0 | -3888.0 | -6780.0 | 0.0 | Match & Move（畫面不動；概念圖淡出） | L1-銀河、L2-星點、L3-經緯線、L7-連線-昴宿、L8-連線-畢宿、L10-月亮（12-22 21-38）、L11-主角星白點 | 影子還能量出太陽多遠？可以回頭看《論天三家》那集。三天後聖誕節，我們去北歐：在聖誕節傳來以前，北歐人過的仲冬節，叫 Yule。 |
+| 26 | 鏡頭11結束 | 長圖 | 14953.8 | 19356.9 | -4361.5 | -8136.9 | 0.0 | Match & Move（12.0 秒） | L1-銀河、L2-星點、L3-經緯線、L9-連線-狼嘴（北歐）、L10-月亮（12-22 21-38）、L11-主角星白點、L15-標籤-北歐 |  |
